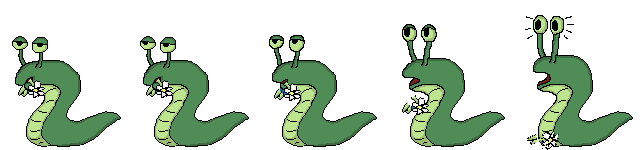
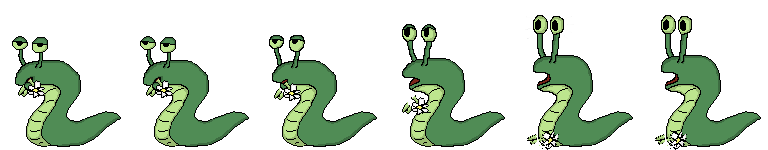
kinda finished for now

diff --git a/src/bier_fight.py b/src/bier_fight.py
@@ -8,9 +8,9 @@ SNAIL_SPRITES_SHOCK = "resources/Schnecke_Schreck.png"
 SNAIL_SPRITES_EAT = "resources/Schnecke_Essen.png"
 EXPLOSION_SPRITES = "resources/Explosions.png"
 
-PETER_POSITION = 0.4
+PETER_POSITION = 0.1
 PETER_SCALE = 1
-SNAIL_POSITION = 0.2
+SNAIL_POSITION = 0.1
 SNAIL_SCALE = 1
 
 
@@ -26,38 +26,59 @@ def init_sprite_sheets():
 class BierFight:
 
     def __init__(self, screen):
+        self.snail_blink_counter = 0
+        self.explosion_y = None
+        self.explosion_x = None
         self.screen = screen
 
         self.center_x = screen.get_width() // 2
         self.center_y = screen.get_height() // 2
 
-        self.explosion_sprites, self.peter_sprites, self.snail_eat_sprites, self.snail_shock_sprites = init_sprite_sheets()
+        self.explosion_sprites, self.bierfight_sprites, self.snail_eat_sprites, self.snail_shock_sprites = init_sprite_sheets()
 
-        self.frame_timer = 0
         self.sprite_frame = 0
 
         self.explosion_frame = 0
         self.current_explosion_row = 0
         self.current_explosion_sprite = None
 
-        self.peter_frame = 0
+        self.bierfight_frame = 0
+        self.current_bierfight_sprite = None
+
         self.snail_eat_frame = 0
         self.current_snail_eat_sprite = None
-        self.snail_shock_frame = 0
+        self.snail_shock_frame = 1
         self.current_snail_shock_sprite = None
 
     def run(self):
-        if self.frame_timer == 0:
-            self.update_snail_eat_sprite()
-            self.update_explosion_sprite()
-        self.frame_timer = (self.frame_timer + 1) % 13
+        self.sprite_frame = (self.sprite_frame + 1) % 51
 
+        if self.sprite_frame > 20:
+            self.show_bierfight()
+        if self.sprite_frame < 30:
+            self.show_snail_eat()
+        else:
+            self.show_snail_shock()
+        if 18 <= self.sprite_frame < 27:
+            self.show_explosion()
+
+
+    def show_explosion(self):
+        self.update_explosion_sprite()
+
+        explosion_x = self.center_x - self.current_explosion_sprite.get_width() / 2 - self.screen.get_width() * PETER_POSITION
+        explosion_y = self.center_y - self.current_explosion_sprite.get_height() / 2
+
+        self.screen.blit(self.current_explosion_sprite,
+                         (explosion_x,
+                          explosion_y))
+
+    def show_snail_eat(self):
+        self.snail_shock_frame = 0
+        self.update_snail_eat_sprite()
         self.screen.blit(self.current_snail_eat_sprite,
                          (self.center_x + self.screen.get_width() * SNAIL_POSITION,
                           self.center_y - self.current_snail_eat_sprite.get_height() / 2))
-        self.screen.blit(self.current_explosion_sprite,
-                         (self.center_x - self.screen.get_width() * PETER_POSITION,
-                          self.center_y - self.current_explosion_sprite.get_height() / 2))
 
     def update_snail_eat_sprite(self):
         rect = pygame.Rect(self.snail_eat_frame * 128, 0, 128, 150)
@@ -66,10 +87,26 @@ class BierFight:
         self.snail_eat_frame = (self.snail_eat_frame + 1) % 3
 
     def show_snail_shock(self):
-        pass
+        self.update_snail_shock_sprite()
+        self.screen.blit(self.current_snail_shock_sprite,
+                         (self.center_x + self.screen.get_width() * SNAIL_POSITION,
+                          self.center_y - self.current_snail_shock_sprite.get_height() / 2))
 
-    def show_peter(self):
-        pass
+    def show_bierfight(self):
+        self.update_bierfight_sprite()
+        bierfight_x = self.center_x - self.current_bierfight_sprite.get_width() / 2 - self.screen.get_width() * PETER_POSITION
+        bierfight_y = self.center_y - self.current_bierfight_sprite.get_height() / 2
+
+        self.screen.blit(self.current_bierfight_sprite,
+                         (bierfight_x, bierfight_y))
+
+    def update_bierfight_sprite(self):
+        peter_width = self.bierfight_sprites.get_width() / 6
+        peter_height = self.bierfight_sprites.get_height()
+        rect = pygame.Rect(self.bierfight_frame * peter_width, 0, peter_width, peter_height)
+        bierfight_sprite = self.bierfight_sprites.subsurface(rect)
+        self.current_bierfight_sprite = bierfight_sprite
+        self.bierfight_frame = (self.bierfight_frame + 1) % 6
 
     def update_explosion_sprite(self):
         explosion_width = self.explosion_sprites.get_width() / 9
@@ -81,3 +118,13 @@ class BierFight:
         self.current_explosion_sprite = explosion_sprite
 
         self.explosion_frame = (self.explosion_frame + 1) % 9
+
+    def update_snail_shock_sprite(self):
+        rect = pygame.Rect(self.snail_shock_frame * 128, 0, 128, 150)
+        snail_shock_sprites = self.snail_shock_sprites.subsurface(rect)
+        self.current_snail_shock_sprite = snail_shock_sprites
+
+        if self.snail_shock_frame == 5:
+            self.snail_shock_frame = 3
+
+        self.snail_shock_frame = (self.snail_shock_frame + 1) % 6

diff --git a/src/animation_manager.py b/src/animation_manager.py
@@ -2,12 +2,22 @@ from bier_fight import BierFight
 from budda import Budda
 from time_manager import TimeManager
 
+NACHTS = "NACHTS"
+
+ABENDS = "ABENDS"
+
+MITTAGS = "MITTAGS"
+
+MORGENS = "MORGENS"
+BG = (8, 6, 14)
 
 class AnimationManager:
     def __init__(self, screen):
         self.screen = screen
         self.time_manager = TimeManager()
-        self.animations = {"MORGENS": BierFight(screen), "MITTAGS": BierFight(screen) , "ABENDS": Budda(screen), "NACHTS": "Schlafen"}
+        self.frame_timer = 0
+        self.frame_speed = None
+        self.animations = {MORGENS: BierFight(screen), MITTAGS: BierFight(screen) , ABENDS: Budda(screen), NACHTS: Budda(screen)}
         self.current_animation = None
         self.next_animation = None
         # self.meditation = Meditation()
@@ -18,5 +28,14 @@ class AnimationManager:
 
     def update(self):
         current_period = self.time_manager.determine_period()
-        current_animation = self.animations.get(current_period)
-        current_animation.run()
+
+        if current_period == MORGENS or current_period == MITTAGS:
+            self.frame_speed = 10
+        if current_period == ABENDS or current_period == NACHTS:
+            self.frame_speed = 2
+
+        self.frame_timer = (self.frame_timer + 1) % self.frame_speed
+        if self.frame_timer == 0:
+            self.screen.fill(BG)
+            current_animation = self.animations.get(current_period)
+            current_animation.run()

diff --git a/src/main.py b/src/main.py
@@ -4,11 +4,13 @@ import pygame
 from animation_manager import AnimationManager
 
 FPS = 60
-BG = (8, 6, 14)
+
 
 pygame.init()
 #screen = pygame.display.set_mode((0, 0), pygame.FULLSCREEN)
 screen = pygame.display.set_mode((800, 480))
+
+
 
 clock = pygame.time.Clock()
 animation_manager = AnimationManager(screen)
@@ -18,8 +20,6 @@ while running:
     for event in pygame.event.get():
         if event.type == pygame.QUIT:
             running = False
-
-    screen.fill(BG)
 
     animation_manager.update()
 

diff --git a/src/budda.py b/src/budda.py
@@ -3,15 +3,15 @@ import math
 import pygame
 
 GLOW_SPEED = 0.08
-GLOW_RADIUS = 30
+GLOW_RADIUS = 22
 
 BUDDA_ANGLE_SPEED = 0.02
 BUDDA_RADIUS = 15
-BUDDA_SCALE = 0.1
+BUDDA_SCALE = 0.13
 
 MOON_ANGLE_SPEED = 0.01
 MOON_RADIUS = 180
-MOON_SCALE = 0.08
+MOON_SCALE = 0.06
 
 MOONS_PATH = [
     "resources/Fleckenentfernerblau.png",
